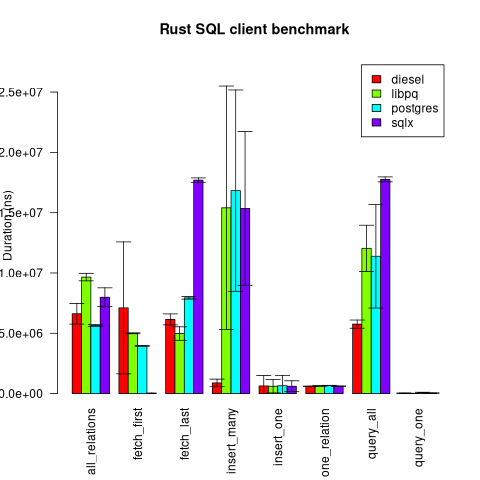
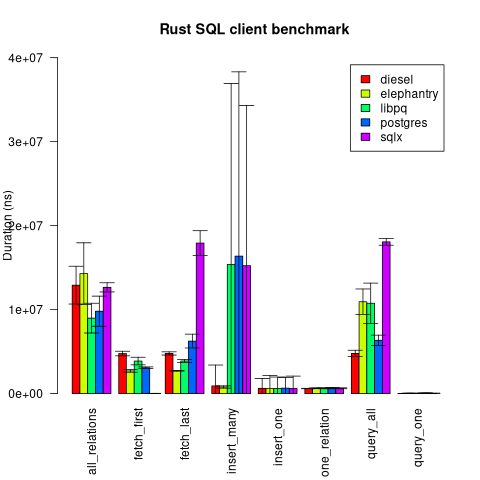
Nested entities

diff --git a/diesel/src/lib.rs b/diesel/src/lib.rs
@@ -44,7 +44,7 @@ diesel::table! {
 allow_tables_to_appear_in_same_query!(users, posts);
 joinable!(posts -> users (author));
 
-#[derive(Clone, diesel::Queryable, Identifiable)]
+#[derive(Clone, Queryable, Identifiable)]
 pub struct User {
     id: uuid::Uuid,
     name: String,
@@ -60,22 +60,14 @@ pub struct NewPost {
     author: uuid::Uuid,
 }
 
-impl NewPost {
-    fn new(id: usize, user_id: uuid::Uuid) -> Self {
-        Self {
-            title: format!("Post number {} for user {}", id, user_id),
-            content: "abc".chars().cycle().take(500).collect::<String>(),
-            author: user_id,
-        }
-    }
-}
-
-#[derive(Queryable, Associations, Identifiable)]
+#[derive(Queryable, Identifiable, Associations)]
+#[table_name = "posts"]
 #[belongs_to(User, foreign_key = "author")]
 pub struct Post {
     id: uuid::Uuid,
-    author: uuid::Uuid,
     title: String,
+    content: String,
+    author: uuid::Uuid,
 }
 
 struct Connection(diesel::pg::PgConnection);
@@ -83,7 +75,7 @@ struct Connection(diesel::pg::PgConnection);
 impl elephantry_benchmark::Client for Connection {
     type Error = diesel::result::Error;
     type User = User;
-    type Post = String;
+    type Post = Post;
 
     fn create(dsn: &str) -> Result<Self, Self::Error> {
         use diesel::Connection;
@@ -133,86 +125,22 @@ impl elephantry_benchmark::Client for Connection {
     fn one_relation(&mut self) -> Result<(Self::User, Vec<Self::Post>), Self::Error> {
 
         let users = users::table.find(elephantry_benchmark::UUID).first::<User>(&self.0)?;
-        let posts = Post::belonging_to(&users).select((posts::id, posts::author, posts::title)).load::<Post>(&self.0)?.into_iter().map(|Post{title, ..}| title).collect();
+        let posts = Post::belonging_to(&users).select(posts::all_columns).load::<Post>(&self.0)?.into_iter().collect();
 
         Ok((users, posts))
     }
 
     fn all_relations(&mut self) -> Result<Vec<(Self::User, Vec<Self::Post>)>, Self::Error> {
-        use self::array_agg::array_agg;
+        let users = users::table.load(&self.0)?;
+        let posts: Vec<Post> = Post::belonging_to(&users)
+            .load(&self.0)?;
+        let grouped_posts = posts.grouped_by(&users);
+        let users_and_posts = users.into_iter()
+            .zip(grouped_posts)
+            .collect();
 
-        let res = users::table.inner_join(posts::table).group_by((users::id, users::name, users::hair_color, users::created_at))
-                                             .select((users::all_columns, array_agg(posts::title)))
-                                             .load::<(User, Vec<String>)>(&self.0)?;
-
-        Ok(res)
+        Ok(users_and_posts)
     }
 }
 
 elephantry_benchmark::bench! {Connection}
-
-#[allow(non_camel_case_types)]
-mod array_agg {
-    use diesel::expression::{
-        AppearsOnTable, AsExpression, Expression, SelectableExpression, NonAggregate,
-    };
-    use diesel::pg::Pg;
-    use diesel::query_builder::{AstPass, QueryFragment,};
-    use diesel::result::QueryResult;
-    use diesel::sql_types::{Array, SingleValue};
-    use std::marker::PhantomData;
-
-    #[derive(Debug, Clone, Copy, QueryId)]
-    #[doc(hidden)]
-    pub struct array_agg_t<From, To> {
-        a: From,
-        to: PhantomData<To>,
-    }
-
-    pub type array_agg<From, To> = array_agg_t<<From as AsExpression<To>>::Expression, To>;
-
-    pub fn array_agg<From, To>(a: From) -> array_agg<From, To>
-    where
-        From: AsExpression<To>,
-        To: SingleValue,
-    {
-        array_agg_t {
-            a: a.as_expression(),
-            to: Default::default(),
-        }
-    }
-
-    impl<From, To> Expression for array_agg_t<From, To>
-    where
-        for<'a> &'a From: Expression,
-    {
-        type SqlType = Array<To>;
-    }
-
-    impl<From, To> QueryFragment<Pg> for array_agg_t<From, To>
-    where
-        for<'a> &'a From: QueryFragment<Pg>,
-    {
-        fn walk_ast(&self, mut out: AstPass<Pg>) -> QueryResult<()> {
-            out.push_sql("array_agg(");
-            QueryFragment::walk_ast(&(&self.a,), out.reborrow())?;
-            out.push_sql(")");
-            Ok(())
-        }
-    }
-
-    impl<From, To, QS> SelectableExpression<QS> for array_agg_t<From, To>
-    where
-        From: SelectableExpression<QS>,
-    array_agg_t<From, To>: AppearsOnTable<QS>,
-    {
-    }
-
-    impl<From, To, QS> AppearsOnTable<QS> for array_agg_t<From, To>
-    where
-        From: AppearsOnTable<QS>,
-    array_agg_t<From, To>: Expression,
-    {
-    }
-    impl<From, To> NonAggregate for array_agg_t<From, To> {}
-}

diff --git a/sqlx/src/lib.rs b/sqlx/src/lib.rs
@@ -9,7 +9,26 @@ pub struct User {
     pub name: String,
     pub hair_color: Option<String>,
     pub created_at: Option<chrono::NaiveDateTime>,
-    pub posts: Option<Vec<String>>,
+    pub posts: Option<Posts>,
+}
+
+/* https://github.com/launchbadge/sqlx/issues/298 */
+#[derive(Clone, sqlx::Type)]
+#[sqlx(type_name = "_posts")]
+pub struct Posts(Vec<Post>);
+
+impl Posts {
+    fn to_vec(self) -> Vec<Post> {
+        self.0
+    }
+}
+
+#[derive(Clone, sqlx::Type)]
+#[sqlx(type_name = "posts")]
+pub struct Post {
+    pub id: Option<uuid::Uuid>,
+    pub title: String,
+    pub content: String,
 }
 
 struct Connection(sqlx::PgConnection);
@@ -17,7 +36,7 @@ struct Connection(sqlx::PgConnection);
 impl elephantry_benchmark::Client for Connection {
     type Error = sqlx::Error;
     type User = User;
-    type Post = String;
+    type Post = Post;
 
     fn create(dsn: &str) -> Result<Self, Self::Error> {
         async_std::task::block_on(async {
@@ -65,7 +84,7 @@ impl elephantry_benchmark::Client for Connection {
 
     fn one_relation(&mut self) -> Result<(Self::User, Vec<Self::Post>), Self::Error> {
         let query = r#"
-select u.*, array_agg(p.title) as posts
+select u.*, array_agg(p) as posts
     from users u
     join posts p on p.author = u.id
     where u.id = $1
@@ -74,14 +93,14 @@ select u.*, array_agg(p.title) as posts
         let user = async_std::task::block_on({
             sqlx::query_as::<_, User>(query).bind(elephantry_benchmark::UUID).fetch_one(&mut self.0)
         })?;
-        let posts = user.posts.clone().unwrap_or_default();
+        let posts = user.posts.clone().map(Posts::to_vec).unwrap();
 
         Ok((user, posts))
     }
 
     fn all_relations(&mut self) -> Result<Vec<(Self::User, Vec<Self::Post>)>, Self::Error> {
          let query = r#"
-select u.*, array_agg(p.title) as posts
+select u.*, array_agg(p) as posts
     from users u
     join posts p on p.author = u.id
     group by u.id, u.name, u.hair_color, u.created_at
@@ -90,10 +109,7 @@ select u.*, array_agg(p.title) as posts
             sqlx::query_as::<_, User>(query).fetch_all(&mut self.0)
         })?
         .iter()
-        .map(|u| {
-            let posts = u.posts.clone().unwrap_or_default();
-            (u.clone(), posts)
-        })
+        .map(|u| (u.clone(), u.posts.clone().map(Posts::to_vec).unwrap()))
         .collect();
 
         Ok(users)

diff --git a/elephantry/src/lib.rs b/elephantry/src/lib.rs
@@ -13,7 +13,7 @@ mod user {
         pub hair_color: Option<String>,
         pub created_at: Option<chrono::NaiveDateTime>,
         #[elephantry(default, virtual)]
-        pub posts: Vec<String>,
+        pub posts: Vec<crate::post::Entity>,
     }
 
     impl Entity {
@@ -38,7 +38,7 @@ mod user {
         }
     }
 
-    impl<'a> Model<'a> {
+    impl Model {
         pub fn user_with_posts(&self, id: uuid::Uuid) -> Result<Entity, elephantry::Error> {
             use elephantry::Model;
 
@@ -52,7 +52,7 @@ select {projection}
 
             let projection = Self::create_projection()
                 .alias("u")
-                .add_field("posts", "array_agg(p.title)");
+                .add_field("posts", "array_agg(p)");
 
             let sql = query.replace("{projection}", &projection.to_string());
 
@@ -71,7 +71,7 @@ select {projection}
 
             let projection = Self::create_projection()
                 .alias("u")
-                .add_field("posts", "array_agg(p.title)");
+                .add_field("posts", "array_agg(p)");
 
             let sql = query.replace("{projection}", &projection.to_string());
 
@@ -80,12 +80,23 @@ select {projection}
     }
 }
 
+mod post {
+    #[derive(Clone, elephantry::Entity, elephantry::Composite)]
+    #[elephantry(model = "Model", structure = "Structure", relation = "public.posts")]
+    pub struct Entity {
+        #[elephantry(pk)]
+        pub id: Option<uuid::Uuid>,
+        pub title: String,
+        pub content: String,
+    }
+}
+
 struct Connection(elephantry::Pool);
 
 impl elephantry_benchmark::Client for Connection {
     type Error = elephantry::Error;
     type User = user::Entity;
-    type Post = String;
+    type Post = post::Entity;
 
     fn create(dsn: &str) -> Result<Self, Self::Error> {
         elephantry::Pool::new(dsn)

diff --git a/postgres/src/lib.rs b/postgres/src/lib.rs
@@ -8,12 +8,12 @@ pub struct User {
     name: String,
     hair_color: Option<String>,
     created_at: chrono::NaiveDateTime,
-    posts: Option<Vec<String>>,
+    posts: Option<Vec<Post>>,
 }
 
 impl User {
     fn from_row(row: &postgres::Row) -> Self {
-        User {
+        Self {
             id: row.get("id"),
             name: row.get("name"),
             hair_color: row.get("hair_color"),
@@ -23,12 +23,19 @@ impl User {
     }
 }
 
+#[derive(Clone, postgres_derive::FromSql)]
+pub struct Post {
+    id: Option<uuid::Uuid>,
+    title: String,
+    content: String,
+}
+
 struct Connection(postgres::Client);
 
 impl elephantry_benchmark::Client for Connection {
     type Error = postgres::Error;
     type User = User;
-    type Post = String;
+    type Post = Post;
 
     fn create(dsn: &str) -> Result<Self, Self::Error> {
         postgres::Client::connect(dsn, postgres::NoTls)
@@ -81,7 +88,7 @@ impl elephantry_benchmark::Client for Connection {
 
     fn one_relation(&mut self) -> Result<(Self::User, Vec<Self::Post>), Self::Error> {
             let query = r#"
-select u.*, array_agg(p.title)
+select u.*, array_agg(p)
     from users u
     join posts p on p.author = u.id
     where u.id = $1
@@ -101,7 +108,7 @@ select u.*, array_agg(p.title)
 
     fn all_relations(&mut self) -> Result<Vec<(Self::User, Vec<Self::Post>)>, Self::Error> {
              let query = r#"
-select u.*, array_agg(p.title)
+select u.*, array_agg(p)
     from users u
     join posts p on p.author = u.id
     group by u.id, u.name, u.hair_color, u.created_at
